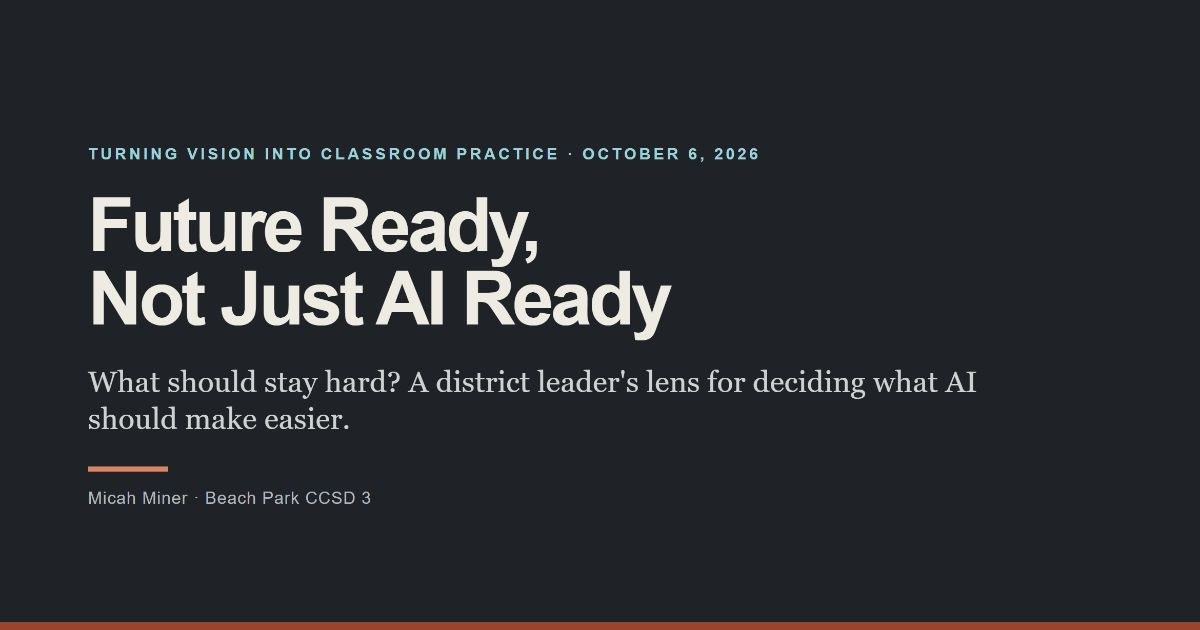
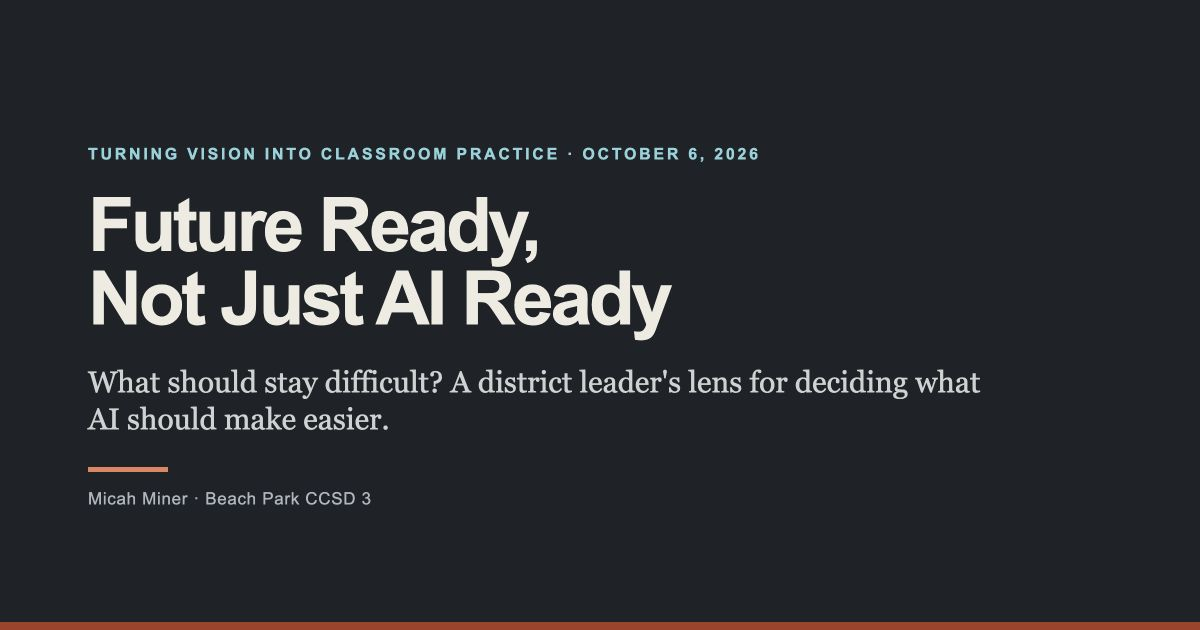
Improve conference participation and use difficult throughout deck

diff --git a/index.html b/index.html
@@ -4,15 +4,15 @@
 <meta charset="utf-8">
 <meta name="viewport" content="width=device-width, initial-scale=1">
 <title>Future Ready, Not Just AI Ready</title>
-<meta name="description" content="Interactive keynote for Turning Vision into Classroom Practice, an Imagine Learning summit for district leaders, October 6, 2026. Screen time, friction, and AI: a district leader's lens for deciding what should stay hard.">
+<meta name="description" content="Interactive keynote for Turning Vision into Classroom Practice, an Imagine Learning summit for district leaders, October 6, 2026. Screen time, friction, and AI: a district leader's lens for deciding what should stay difficult.">
 <meta property="og:type" content="website">
 <meta property="og:title" content="Future Ready, Not Just AI Ready | Micah Miner">
-<meta property="og:description" content="What should stay hard? A district leader's lens for deciding what AI should make easier.">
+<meta property="og:description" content="What should stay difficult? A district leader's lens for deciding what AI should make easier.">
 <meta property="og:url" content="https://minerclass.github.io/future-ready-not-just-ai-ready/">
 <meta property="og:image" content="https://minerclass.github.io/future-ready-not-just-ai-ready/assets/social-card.png">
 <meta property="og:image:width" content="1200">
 <meta property="og:image:height" content="630">
-<meta property="og:image:alt" content="Future Ready, Not Just AI Ready. What should stay hard? Keynote by Micah Miner.">
+<meta property="og:image:alt" content="Future Ready, Not Just AI Ready. What should stay difficult? Keynote by Micah Miner.">
 <meta name="twitter:card" content="summary_large_image">
 <meta name="twitter:image" content="https://minerclass.github.io/future-ready-not-just-ai-ready/assets/social-card.png">
 <link rel="stylesheet" href="https://minerclass.github.io/tokens.css">
@@ -426,7 +426,7 @@
     <div class="inner">
       <p class="eyebrow">Turning Vision into Classroom Practice &middot; October 6, 2026</p>
       <h1>Future Ready,<br>Not Just AI Ready</h1>
-      <p class="display-sub">What should stay hard? A district leader's lens for deciding what AI should make easier.</p>
+      <p class="display-sub">What should stay difficult? A district leader's lens for deciding what AI should make easier.</p>
       <hr class="rule">
       <p class="credit">Micah Miner, CETL &middot; Director of Innovation and Technology, Beach Park CCSD 3 &middot; Author, <em>AI Goes to School</em></p>
     </div>
@@ -440,21 +440,21 @@
     </div>
   </section>
 
-  <!-- 3 --><section class="scene dark" data-sec="Opening" data-notes="Hands go up fast. Take two or three out loud. Scheduling, translation, IEP paperwork, first drafts, lesson planning.">
+  <!-- 3 --><section class="scene dark" data-sec="Opening" data-notes="Give tables thirty seconds, then take two or three answers aloud. Possible examples: scheduling, translation, paperwork, first drafts, lesson planning. Respond to what people actually say; do not assume every district has the same experience.">
     <div class="inner">
       <p class="eyebrow">Question one</p>
       <p class="huge">Name one thing that got <em>easier</em> in your district this year because of AI.</p>
     </div>
   </section>
 
-  <!-- 4 --><section class="scene dark" data-sec="Opening" data-notes="The most important silence in the hour. Do not rescue it. Do not fill it. Let it sit, then move on quietly.">
+  <!-- 4 --><section class="scene dark" data-sec="Opening" data-notes="Give the room time to think. If there is silence, let it sit before moving on. If someone offers a credible example, welcome it and ask: What evidence makes you confident? Use the answer to distinguish student capability from polished output. Do not manufacture a gap the room did not report.">
     <div class="inner">
       <p class="eyebrow">Question two</p>
       <p class="huge">Now name one thing your students got <em>better</em> at because of AI.</p>
     </div>
   </section>
 
-  <!-- 5 --><section class="scene" data-sec="Opening" data-notes="Name what just happened without scolding anyone. Everyone here is working hard. The gap is structural, not a failure of effort. Point at the two columns, then land the last line slowly. What should stay hard is the question the hour carries, and it comes back on the final slide.">
+  <!-- 5 --><section class="scene" data-sec="Opening" data-notes="Name what the room actually reported: a gap in evidence, uncertainty, or a credible example of student growth. Avoid scolding anyone. The two questions measure different things, even when a district can answer both. Point at the columns and land the last line slowly. What should stay difficult is the question the hour carries. Pacing target: finish the opening by minute 8.">
     <div class="inner wide">
       <p class="eyebrow">The gap</p>
       <h2>Those are not the same question.</h2>
@@ -478,7 +478,7 @@
           </ul>
         </div>
       </div>
-      <p class="lede">It is easy to answer the first and believe we have answered the second. The question underneath both is the one this hour is about: <strong>what should stay hard?</strong></p>
+      <p class="lede">It is easy to answer the first and believe we have answered the second. The question underneath both is the one this hour is about: <strong>what should stay difficult?</strong></p>
     </div>
   </section>
 
@@ -541,7 +541,7 @@
     </div>
   </section>
 
-  <!-- 8 --><section class="scene" data-sec="Framing" data-notes="INTERACTIVE. Ask for hands and ACTUALLY COUNT before you click each reveal. The reveal is the pattern across rooms, not a prediction of this one. If this room breaks the pattern, say so out loud, it is a good sign. Sari Factor's session takes on this same gap between the Portrait and the classroom; point to it.">
+  <!-- 8 --><section class="scene" data-sec="Framing" data-notes="INTERACTIVE. Ask for hands and count before opening each row. Describe the actual response. Ask a district that has mapped its AI guidance to its Portrait for one example if time permits. Anyone without a Portrait can use a district priority or learning goal. Sari Factor's session takes on the connection between the Portrait and the classroom; point to it. Pacing target: finish slide 11 by minute 16.">
     <div class="inner wide">
       <p class="eyebrow">Show of hands</p>
       <h2>Two questions about your Portrait of a Graduate.</h2>
@@ -549,7 +549,7 @@
         <button class="qrow" type="button" aria-expanded="false">
           <span class="qn">01</span>
           <span class="qbody"><span class="qq">Who has one?</span>
-          <span class="qwhy">Nearly every hand in the room. Districts have done this work, and most of them did it well.</span></span>
+          <span class="qwhy">Use the capacities your district has named. If you do not have a Portrait, choose a district priority or learning goal.</span></span>
         </button>
         <button class="qrow" type="button" aria-expanded="false">
           <span class="qn">02</span>
@@ -650,8 +650,8 @@
             <text x="260" y="90" font-size="13.5" text-anchor="middle" fill="#7A2C1B">saying it so</text>
             <text x="260" y="109" font-size="13.5" text-anchor="middle" fill="#7A2C1B">others understand</text>
             <text x="432" y="66" font-size="19" font-weight="700" text-anchor="middle" fill="#7A2C1B">World</text>
-            <text x="432" y="90" font-size="13.5" text-anchor="middle" fill="#7A2C1B">becoming someone</text>
-            <text x="432" y="109" font-size="13.5" text-anchor="middle" fill="#7A2C1B">who can do hard things</text>
+            <text x="432" y="90" font-size="13.5" text-anchor="middle" fill="#7A2C1B">becoming someone who</text>
+            <text x="432" y="109" font-size="13.5" text-anchor="middle" fill="#7A2C1B">can do difficult things</text>
 
             <line x1="88" y1="124" x2="88" y2="168" stroke="currentColor" stroke-width="1.5" opacity="0.5"/>
             <line x1="260" y1="124" x2="260" y2="134" stroke="currentColor" stroke-width="1.5" opacity="0.5"/>
@@ -725,7 +725,7 @@
       <div class="node-detail" id="nd-world">
         <span class="dl-label">World &middot; the work of becoming</span>
         <p>Who the student turns into by staying with something difficult until it is done.</p>
-        <p class="bypass">When a tool does this: a student who never finishes something hard may never learn that they can. That is not information. It is formation.</p>
+        <p class="bypass">When a tool does this: a student who never finishes something difficult may never learn that they can. That is not information. It is formation.</p>
       </div>
     </div>
   </section>
@@ -760,11 +760,11 @@
     </div>
   </section>
 
-  <!-- 16 --><section class="scene" data-sec="Friction" data-notes="Critical framing. NOT an anti-vendor point. Say it warmly. It is the reason this room has a job.">
+  <!-- 16 --><section class="scene" data-sec="Friction" data-notes="Tools can be designed to preserve productive struggle. The point is that educators and leaders must still judge the fit between a tool's design, the learning goal, and the learner's needs. Say it warmly. Pacing target: arrive at the four questions by minute 26.">
     <div class="inner">
       <p class="eyebrow">The part that is nobody's fault</p>
-      <h2>A tool cannot tell these layers apart.</h2>
-      <p class="lede">Removing effort is what these products are built to do. To a product, every bit of struggle looks like a problem to solve. That is how the category works, not a flaw in anyone's software.</p>
+      <h2>The instructional judgment stays with you.</h2>
+      <p class="lede">Tools embody decisions about what to make easier. Districts still have to judge whether those decisions serve the learning goal and the learner's needs.</p>
       <div class="quiet"><strong>Which means the judgment call can only live with the adults.</strong> No procurement process, no setting, and no vendor assurance moves that responsibility off your desk.</div>
     </div>
   </section>
@@ -793,17 +793,17 @@
         <button class="qrow" type="button" aria-expanded="false">
           <span class="qn">04</span>
           <span class="qbody"><span class="qq">What signal would tell us it went wrong, and who is watching it?</span>
-          <span class="qwhy">If no one has named the evidence that would reveal a learning gap, ordinary completion data may not expose it. Decide what to inspect and who will inspect it. Example: the instructional coach reads a monthly sample of unassisted exit tickets.</span></span>
+          <span class="qwhy">If no one has named the evidence that would reveal a learning gap, ordinary completion data may not expose it. Decide what to inspect and who will inspect it. Example: the instructional coach reads a monthly sample of student-authored exit tickets, with needed accessibility supports.</span></span>
         </button>
       </div>
     </div>
   </section>
 
-  <!-- 18 --><section class="scene" data-sec="The lens" data-notes="INTERACTIVE. Do 3 or 4, not all seven (2 if time is short). SAVE TEXT TO SPEECH FOR LAST. It is the one that shows the same feature can be either, depending on the objective. Base-layer relief is not automatic approval: name the separate privacy, accuracy, access, bias, and integrity checks when the first two examples appear.">
+  <!-- 18 --><section class="scene" data-sec="The lens" data-notes="VOTE BEFORE THE REVEAL. Use two examples, plus text to speech last. For each, give ten seconds to decide alone, twenty seconds to explain to a neighbor, then ask for a show of hands: keep, change, constrain, or stop. Ask what information is missing before clicking. For text to speech, compare evaluating historical evidence with practicing decoding: Same feature. Different learning goal. What changes about your decision? Retain needed accessibility supports in both situations. Allow about three minutes for this discussion. Base-layer relief still needs privacy, accuracy, access, bias, and integrity checks. Pacing target: begin the table audit by minute 34.">
     <div class="inner wide">
       <p class="eyebrow">Try the lens &middot; pick one</p>
       <h2>Which layer does it ease?</h2>
-      <p class="hint">Click a tool</p>
+      <p class="hint">Decide alone. Compare with a neighbor. Vote before the reveal.</p>
       <div class="sorter">
         <div class="chips">
           <button class="chip" type="button" aria-pressed="false" data-layers="base" data-verdict="good" data-text="Reduces an access barrier. For consequential notices, verify translation quality and use an approved workflow.">Translate a family notice</button>
@@ -812,7 +812,7 @@
           <button class="chip" type="button" aria-pressed="false" data-layers="head" data-verdict="bypass" data-text="If comprehension was the objective, the objective just left the building. If the reading was background for something else, this may be fine.">AI summarizes the reading</button>
           <button class="chip" type="button" aria-pressed="false" data-layers="head" data-verdict="depends" data-text="Load management, not load removal. Good, as long as somebody owns the exit ramp. Scaffolds that never come down become ceilings.">Adaptive practice set</button>
           <button class="chip" type="button" aria-pressed="false" data-layers="base" data-verdict="depends" data-text="Speeds feedback, which is real value. It also takes the teacher's read of the class. Decide on purpose who keeps that.">Auto-grade short answers</button>
-          <button class="chip" type="button" aria-pressed="false" data-layers="maybe" data-verdict="depends" data-text="Same feature, opposite call. If decoding is the objective, this skips the learning. If the objective is historical reasoning and decoding is the barrier, this is pure access. The tool cannot tell. You can.">Text to speech for a struggling reader</button>
+          <button class="chip" type="button" aria-pressed="false" data-layers="maybe" data-verdict="depends" data-text="Same feature, different learning goal. For historical reasoning, text to speech can remove a decoding barrier. For decoding practice, students need opportunities to do the decoding. Retain needed accessibility supports in both situations; judge whether the learner is doing the target thinking.">Text to speech for a struggling reader</button>
         </div>
         <div class="sorter-stage">
           <div class="mini" id="miniStrata" role="img" aria-label="A small version of the friction layers. Head, Room and World sit above a wide base layer. The layer affected by the selected tool is highlighted.">
@@ -832,22 +832,22 @@
     </div>
   </section>
 
-  <!-- 19 --><section class="scene" data-sec="The lens" data-notes="Four minutes at tables. Ask each table to name a recorder. Start the timer after everyone has chosen one specific use, not an entire product. Before you start the timer, open the first example so tables see a finished sentence. Open the others only for a table that is stuck. Walk the room and listen for a learning goal, a signal, and an owner. Do not use an Imagine Learning product here. After four minutes, invite two tables to share their final sentence in 30 seconds each.">
+  <!-- 19 --><section class="scene" data-sec="The lens" data-notes="EIGHT MINUTES TOTAL. One minute: choose one specific use and a recorder. One minute: open the reading example and model the finished sentence. Four minutes: table discussion and writing in participants' own notes. Two minutes: two thirty-second reports and your response. Start the four-minute work period only after the task is clear. Walk the room and ask: What would you actually look at to know whether this protection was working? Listen for a learning goal, an observable signal, and an owner. Keep needed accessibility supports. Use a familiar non-Imagine Learning use here. Pacing target: finish the debrief by minute 42.">
     <div class="inner wide">
-      <p class="eyebrow">Table audit &middot; four minutes</p>
+      <p class="eyebrow">Table audit &middot; eight minutes together</p>
       <h2>One real district use</h2>
       <p class="lede">Choose one specific way a tool is already used in your district. Name one recorder.</p>
       <div class="activity-steps" aria-label="Four steps for the table activity">
         <div class="activity-step"><span class="step-number">01</span><h3>Choose the use</h3><p>Name the exact task and who uses the tool.</p></div>
         <div class="activity-step"><span class="step-number">02</span><h3>Anchor the goal</h3><p>What must the learner or educator still practice or decide?</p></div>
         <div class="activity-step"><span class="step-number">03</span><h3>Run the lens</h3><p>What gets easier? Which layer? What work disappears?</p></div>
-        <div class="activity-step"><span class="step-number">04</span><h3>Make the call</h3><p>Keep, change, constrain, or stop the use. Name a signal and an owner.</p></div>
+        <div class="activity-step"><span class="step-number">04</span><h3>Make the call</h3><p>Keep, change, constrain, or stop. What evidence will an owner inspect?</p></div>
       </div>
       <div class="quiet activity-output"><strong>Your table leaves with one sentence:</strong> In this use, ______ must still ______. ______ will watch ______ for signs the support is replacing the work that matters.</div>
       <div class="examples">
         <span class="ex-head">Finished examples &middot; open one</span>
         <div class="vrows">
-          <button class="vrow vrow--ex" type="button" aria-expanded="false"><span class="vlabel">Example &middot; middle school reading</span><span class="vvalue">In AI-summarized readings, 7th graders must still state the author's central claim in their own words. The ELA coach will watch a monthly sample of unassisted exit tickets for signs the support is replacing the work that matters.</span></button>
+          <button class="vrow vrow--ex" type="button" aria-expanded="false"><span class="vlabel">Example &middot; middle school reading</span><span class="vvalue">In AI-summarized readings, 7th graders must still state the author's central claim in their own words. The ELA coach will review monthly student-authored exit tickets, with needed accessibility supports, for signs the tool is doing the target thinking.</span></button>
           <button class="vrow vrow--ex" type="button" aria-expanded="false"><span class="vlabel">Example &middot; math intervention</span><span class="vvalue">In adaptive math practice, students below grade level must still attempt grade-level tasks every unit. The math interventionist will watch movement toward grade level, not path completion, for signs the support has become a ceiling.</span></button>
           <button class="vrow vrow--ex" type="button" aria-expanded="false"><span class="vlabel">Example &middot; high school writing feedback</span><span class="vvalue">In AI-suggested feedback on essays, teachers must still read each essay before feedback goes out. The department chair will watch a sample of feedback each grading period for signs the teacher's own read of the class is fading.</span></button>
           <button class="vrow vrow--ex" type="button" aria-expanded="false"><span class="vlabel">Example &middot; central office</span><span class="vvalue">In AI-translated family notices, staff must still verify any notice about discipline, special education, or safety before it is sent. The communications lead will watch family questions and corrections for signs the translation is failing families.</span></button>
@@ -869,13 +869,13 @@
     </div>
   </section>
 
-  <!-- 21 --><section class="scene" data-sec="Examples" data-notes="INTERACTIVE. Open the rows one at a time as you talk. Traverse first because source access is the cleanest potential base reduction. Do not claim every source set preserves ambiguity. Ask where students must evaluate evidence and commit to an interpretation. The locator repeats on all four, so point at it once here and let them read it after.">
+  <!-- 21 --><section class="scene" data-sec="Examples" data-notes="AUDIENCE DECISION. Open the design choice and balance, keeping What stays yours closed. Ask: What responsibility would you keep with the district, and what evidence would you inspect? Take two brief answers, then reveal your response. Use this discussion on Traverse only; keep the other three examples moving. Do not claim every source set preserves ambiguity. Ask where students must evaluate evidence and commit to an interpretation. Point at the locator once and let them read the later versions. Budget nine minutes for disclosure and all four examples; reach slide 26 by minute 51.">
     <div class="inner wide">
       <p class="eyebrow">Worked example &middot; social studies</p>
       <h2>Traverse</h2>
       <div class="split split--fig">
         <div>
-          <p class="hint" style="margin-bottom:0.5rem;">Open each in turn</p>
+          <p class="hint" style="margin-bottom:0.5rem;">What would you keep with the district? What evidence would you inspect?</p>
           <div class="vrows">
             <button class="vrow" type="button" aria-expanded="false"><span class="vlabel">The design choice</span><span class="vvalue">Curate primary and secondary sources, then ask students to evaluate evidence and construct an argument.</span></button>
             <button class="vrow" type="button" aria-expanded="false"><span class="vlabel">The balance it strikes</span><span class="vvalue">Removes a base barrier: finding and organizing sources. The Head work remains only where students must decide what the evidence is worth.</span></button>
@@ -977,7 +977,7 @@
           <div class="figure-caveat">Hypothetical risk, not measured MyPath results</div>
           <svg viewBox="0 0 360 220" role="img" aria-label="Hypothetical risk, not measured MyPath results: if an adaptive path stays below rising grade-level demand, a gap could open by May. A district would need to monitor student trajectory to know whether this is happening.">
             <rect x="52" y="8" width="300" height="42" fill="#DBD6C9"/>
-            <text x="202" y="34" font-size="12" text-anchor="middle" fill="#525A61">too hard: shutdown</text>
+            <text x="202" y="34" font-size="12" text-anchor="middle" fill="#525A61">too difficult: shutdown</text>
             <rect x="52" y="54" width="300" height="70" fill="#F1E7CF"/>
             <text x="202" y="74" font-size="12" text-anchor="middle" fill="#5E410B">the right level of challenge</text>
             <rect x="52" y="128" width="300" height="42" fill="#DBD6C9"/>
@@ -1006,7 +1006,7 @@
     </div>
   </section>
 
-  <!-- 26 --><section class="scene" data-sec="Close" data-notes="NINETY SECONDS, NOT MORE. This is not a showcase of our Portrait's design. Use it to show how a leader tests a local aspiration against AI guidance, then walk the three rows. Click the reveal only after you have said you asked yourself question four. The admission is the point, not the Portrait. EXPECT THE FOLLOW-UP: so what did you do about it? Have one honest sentence ready about your next step.">
+  <!-- 26 --><section class="scene" data-sec="Close" data-notes="Keep this to about one minute so the room has time for its own commitment. Model how a leader tests a local aspiration against AI guidance, then walk the three rows. Click the reveal after posing your question. EXPECT THE FOLLOW-UP: so what did you do about it? Rehearse one truthful sentence about your actual next step. Name the action, who is involved, and when it will be discussed. Describe planned work as planned; do not imply it is already completed.">
     <div class="inner wide">
       <p class="eyebrow">Before I ask you to do this</p>
       <h2>Ours. Written before I got here.</h2>
@@ -1037,28 +1037,28 @@
     </div>
   </section>
 
-  <!-- 27 --><section class="scene" data-sec="Close" data-notes="Open one example first, read it, then close it so the room writes its own. These are illustrations, not Beach Park policy; say so. Ninety seconds of silent writing. Enforce the silence. Then two or three share out, kept short.">
+  <!-- 27 --><section class="scene" data-sec="Close" data-notes="Open one example, read it, then close it before participants write their own. These are illustrations, not Beach Park policy. Keep needed accessibility supports while looking for student thinking. Anyone without a Portrait can choose a learning goal or district priority. Give ninety seconds of silent writing, including a date and an existing meeting. Then ask partners to share their commitment in thirty seconds each. A useful commitment names the competency, protection, owner, and the evidence to bring. Pacing target: close by minute 55 and leave five minutes for questions.">
     <div class="inner">
       <p class="eyebrow">The next move &middot; ninety seconds, silent</p>
       <h2>One competency. One protection. One owner.</h2>
-      <p class="lede">Take your Portrait of a Graduate. Pick a single competency. Ask what in your current AI guidance protects it, and write down who is responsible for watching it.</p>
-      <div class="quiet">If you find a gap, name one protection and one owner. <strong>That is a useful result,</strong> and it gives you a concrete next step for this week.</div>
+      <p class="lede">Pick one competency from your Portrait, a district priority, or a learning goal. Name a protection and an owner. Keep needed accessibility supports.</p>
+      <div class="quiet"><strong>Put it on an agenda:</strong> At our next ______ meeting on ______, I will bring ______ so we can decide ______.</div>
       <div class="examples">
         <span class="ex-head">Illustrations &middot; not district policy</span>
         <div class="vrows">
-          <button class="vrow vrow--ex" type="button" aria-expanded="false"><span class="vlabel">Example &middot; Resilience</span><span class="vvalue">Protection: in each unit, students finish one extended task without AI drafting, and teachers look at the revision history, not only the final product. Owner: the building principal, through quarterly walkthroughs.</span></button>
+          <button class="vrow vrow--ex" type="button" aria-expanded="false"><span class="vlabel">Example &middot; Resilience</span><span class="vvalue">Protection: in each unit, students finish an extended task with their own planning and revision, retaining needed accessibility supports. Teachers inspect the revision history. Owner: the building principal, through quarterly walkthroughs.</span></button>
           <button class="vrow vrow--ex" type="button" aria-expanded="false"><span class="vlabel">Example &middot; Critical thinking</span><span class="vvalue">Protection: AI guidance names the analysis students do before any AI use, such as stating a claim and choosing evidence. Owner: the director of curriculum, reviewed each semester.</span></button>
-          <button class="vrow vrow--ex" type="button" aria-expanded="false"><span class="vlabel">Example &middot; Communication</span><span class="vvalue">Protection: in every course, students explain at least one piece of work aloud, in a conference or presentation, where a tool cannot stand in. Owner: department chairs.</span></button>
+          <button class="vrow vrow--ex" type="button" aria-expanded="false"><span class="vlabel">Example &middot; Communication</span><span class="vvalue">Protection: students explain and defend one piece of their own work to another person, using an accessible mode of communication. Owner: department chairs.</span></button>
         </div>
       </div>
     </div>
   </section>
 
-  <!-- 28 --><section class="scene dark" data-sec="Close" data-notes="Return to the silence from question two. Land the line and pause. Then advance silently to the resources slide for Q&amp;A; do not add another spoken conclusion.">
+  <!-- 28 --><section class="scene dark" data-sec="Close" data-notes="Return to what the room said at the opening: what got easier, what got better, and the evidence that distinguishes them. Land the line and pause. Then advance silently to resources for questions. Keep the final five minutes available for the room.">
     <div class="inner">
       <p class="eyebrow">Where we started</p>
       <p class="huge">The districts that will be future ready are not the ones that adopted fastest.</p>
-      <h2>They are the ones that decided, on purpose, what to keep hard.</h2>
+      <h2>They are the ones that decided, on purpose, what to keep difficult.</h2>
     </div>
   </section>
 

diff --git a/assets/social-card.html b/assets/social-card.html
@@ -21,7 +21,7 @@
 <main>
   <p class="eyebrow">Turning Vision into Classroom Practice · October 6, 2026</p>
   <h1>Future Ready,<br>Not Just AI Ready</h1>
-  <p class="subtitle">What should stay hard? A district leader's lens for deciding what AI should make easier.</p>
+  <p class="subtitle">What should stay difficult? A district leader's lens for deciding what AI should make easier.</p>
   <div class="rule"></div>
   <p class="credit">Micah Miner · Beach Park CCSD 3</p>
   <div class="edge"></div>

diff --git a/README.md b/README.md
@@ -1,6 +1,6 @@
 # Future Ready, Not Just AI Ready
 
-Interactive keynote deck asking what should stay hard as AI makes schoolwork
+Interactive keynote deck asking what should stay difficult as AI makes schoolwork
 easier. It connects screen time, pedagogical friction, and decisions only
 district leaders can make.
 
@@ -89,7 +89,7 @@ carry the same distinction:
 
 - **Head** &mdash; working it out for yourself
 - **Room** &mdash; saying it so others understand
-- **World** &mdash; becoming someone who can do hard things
+- **World** &mdash; becoming someone who can do difficult things
 
 Everything they rest on is simply **the base**, labeled "the base: the conditions"
 on the diagram so it is not misread: time, access, technology, policy, the building. Technology can often ease barriers there, subject to the same
@@ -116,11 +116,11 @@ The deck is built to be clicked during the session, not read past.
 | 14 | Head / Room / World nodes | Click each layer to open what it is and what it looks like when a tool absorbs it |
 | 15 | Conceptual gap reveal | Show the rising line first, then add the possible gap that independent work could test |
 | 17 | The four questions | Click any question to open why it matters, with one concrete example in each |
-| 18 | Tool sorter | Click a familiar use and see which layer it touches. Base-layer relief is not automatic approval; text to speech shows how the learning goal changes the call |
-| 19 | Four-minute table audit | Choose one specific district use, anchor it to the goal, run the lens, and leave with a safeguard, signal, and owner. Four finished example sentences (middle school reading, math intervention, high school writing feedback, central office) open one at a time |
-| 21 to 24 | Vendor rows | Open design choice, balance, and what stays yours one at a time to control pacing |
+| 18 | Tool sorter | Decide individually, compare with a neighbor, and vote before the reveal. Text to speech shows how the learning goal changes the decision while needed accessibility supports remain in place |
+| 19 | Eight-minute table audit | One minute to choose a use, one to model the response, four for table work, and two for reports and debrief. Leave with a safeguard, observable signal, and owner. Four finished examples open one at a time |
+| 21 to 24 | Vendor rows | On Traverse, ask the audience to name a district responsibility and evidence before revealing what stays yours. Open the remaining examples one row at a time |
 | 26 | The speaker's own Portrait | Three mapped lines, then reveal the gap he could not answer in his own district |
-| 27 | One competency, one protection, one owner | Three illustrative examples (Resilience, Critical thinking, Communication), labeled as illustrations rather than district policy |
+| 27 | One competency, one protection, one owner | Write a commitment with an existing meeting, date, and evidence to bring; then share with a partner. Use a district priority or learning goal if no Portrait exists. Three illustrative examples remain labeled as illustrations rather than district policy |
 
 ## Presenter controls
 
@@ -136,6 +136,10 @@ The deck is built to be clicked during the session, not read past.
 
 Space and Enter belong to a focused in-slide control, so opening a panel never
 also advances the slide. Arrow keys always navigate.
+
+The Notes control opens an overlay on the deck itself. Use separate printed or
+device notes when mirroring the presentation screen. Reload the deck after
+rehearsal to reset opened panels before attendees arrive.
 
 The bottom bar also carries a **section rail** for jumping between the seven
 parts of the talk, and a **presenter timer** you start with a click.
@@ -173,6 +177,23 @@ subtitle changes.
    next move, the close, and resources.
 
 These seven names are the section rail at the bottom of the deck.
+
+The October 5 facilitation revision budgets a 60-minute session as follows:
+
+| Elapsed minutes | Focus |
+|---|---|
+| 0 to 8 | Opening questions and the gap |
+| 8 to 16 | Future readiness and the dashboard comparison |
+| 16 to 26 | Friction and unproductive success |
+| 26 to 34 | Four questions and audience voting |
+| 34 to 42 | Table audit and debrief |
+| 42 to 51 | Disclosure and worked examples |
+| 51 to 55 | Local example, dated commitment, and close |
+| 55 to 60 | Questions |
+
+Speaker notes include these pacing targets. Adapt the opening to actual audience
+answers, keep needed accessibility supports, and protect the table audit and
+closing commitment when shortening the talk.
 
 ## Repository structure
 
